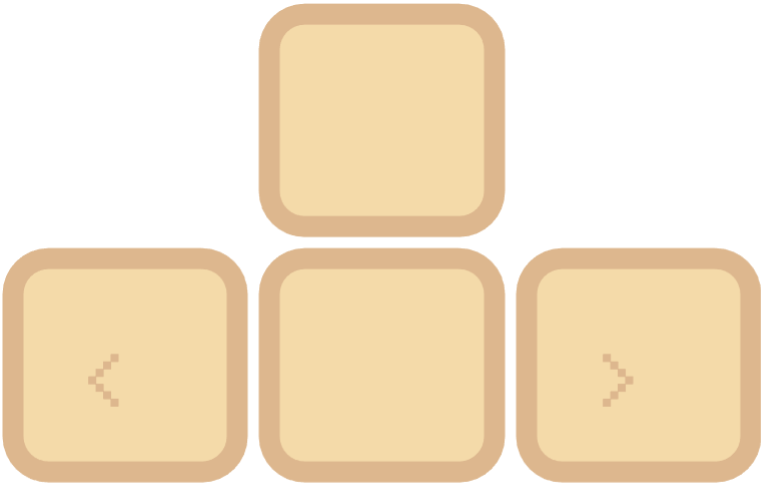
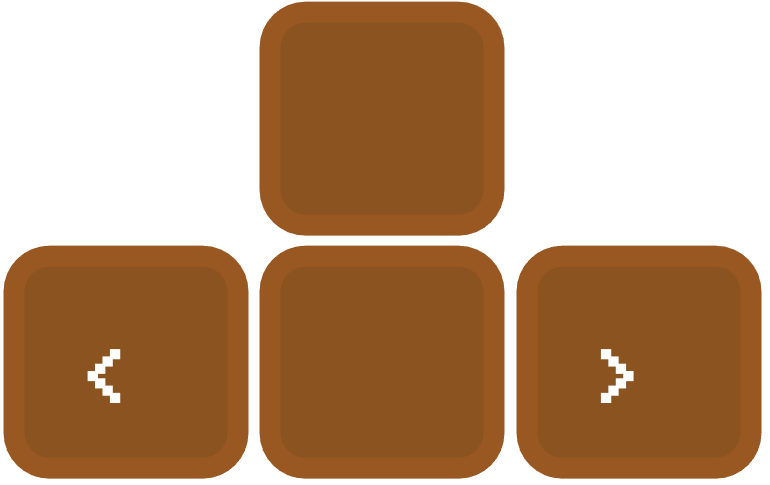
pasue screen

diff --git a/docs/style.css b/docs/style.css
@@ -29,14 +29,14 @@ body {
 
 .button {
   font-family: 'BlockBlueprint';
-  color: #d48e29;
+  color: white;
   padding: 16px 32px;
   font-size: 38px;
   border: 4px;
   border-style: solid;
-  border-color: rgb(212, 142, 41, 0.6);
+  border-color: rgb(153, 88, 34, 0.9);
   border-radius: 20px;
-  background-color: rgb(255, 214, 142, 0.9);
+  background-color: rgb(138, 83, 31, 0.9);
   cursor: pointer;
   transition: background-color 0.3s ease;
   white-space: normal;
@@ -46,7 +46,7 @@ body {
 
 .modeButton {
   font-family: 'BlockBlueprint';
-  color: #DDB78E;
+  color: white;
   padding: 16px 32px;
   font-size: 30px;
   text-align: center;
@@ -89,8 +89,8 @@ button:hover img {
 }
 
 .button:hover {
-  background-color: #ffd68e;
-  border-color: #d48e29;
+  background-color: #8A531F;
+  border-color: #995822;
 }
 
 .center-buttons {

diff --git a/docs/PauseScreen.js b/docs/PauseScreen.js
@@ -6,7 +6,6 @@ class PauseScreen {
   //draws pause screen
   drawScreen() {
     if (!buttonWrapper.contains(this.pauseTitle)) {
-      console.log('here');
       buttonWrapper.appendChild(this.pauseTitle);
     }
     if (!buttonWrapper.contains(this.resume)) {
@@ -26,6 +25,7 @@ class PauseScreen {
   this.pauseTitle = document.createElement('button');
   this.pauseTitle.className = 'title';
   this.pauseTitle.textContent = 'pause';
+  this.pauseTitle.style.borderBlockStyle = 'solid';
   this.pauseTitle.style.background = 'none';
   this.pauseTitle.style.fontSize = '100px';
   this.pauseTitle.style.marginTop = '100px';

diff --git a/docs/sketch.js b/docs/sketch.js
@@ -290,6 +290,7 @@ function tutorialScreen() {
 
 function optionsScreen() {
   clearMainMenu();
+  buttonWrapper.style.marginTop = '30px';
   buttonWrapper.appendChild(optionsTitle);
   buttonWrapper.appendChild(optionsP2);
   buttonWrapper.appendChild(optionsSound);
@@ -335,7 +336,6 @@ function makeMenuButtons() {
   optionsTitle.textContent = 'settings';
   optionsTitle.style.fontSize = '80px';
   optionsTitle.style.borderBlockStyle = 'solid';
-  optionsTitle.style.borderColor = '#DDB78E';
   optionsTitle.style.marginTop = '-10px';
   optionsTitle.style.marginBottom = '90px';
 
